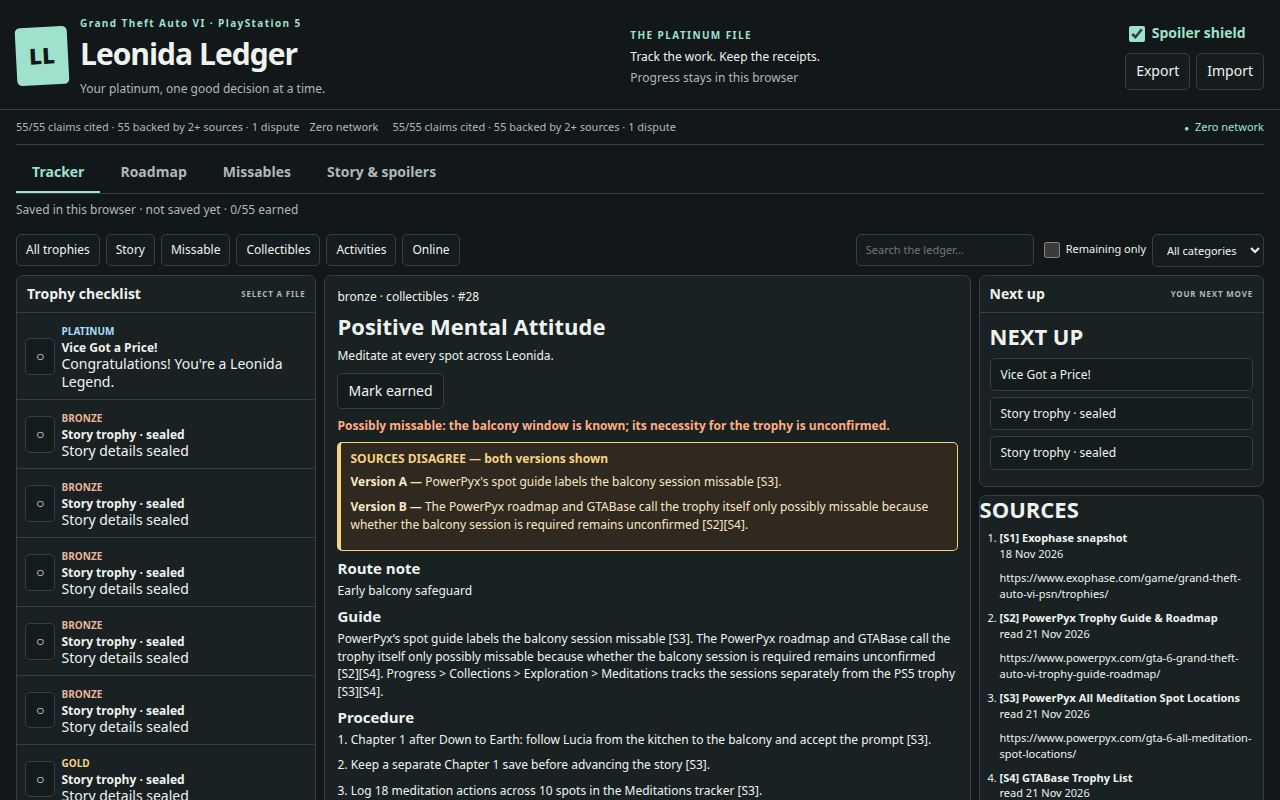
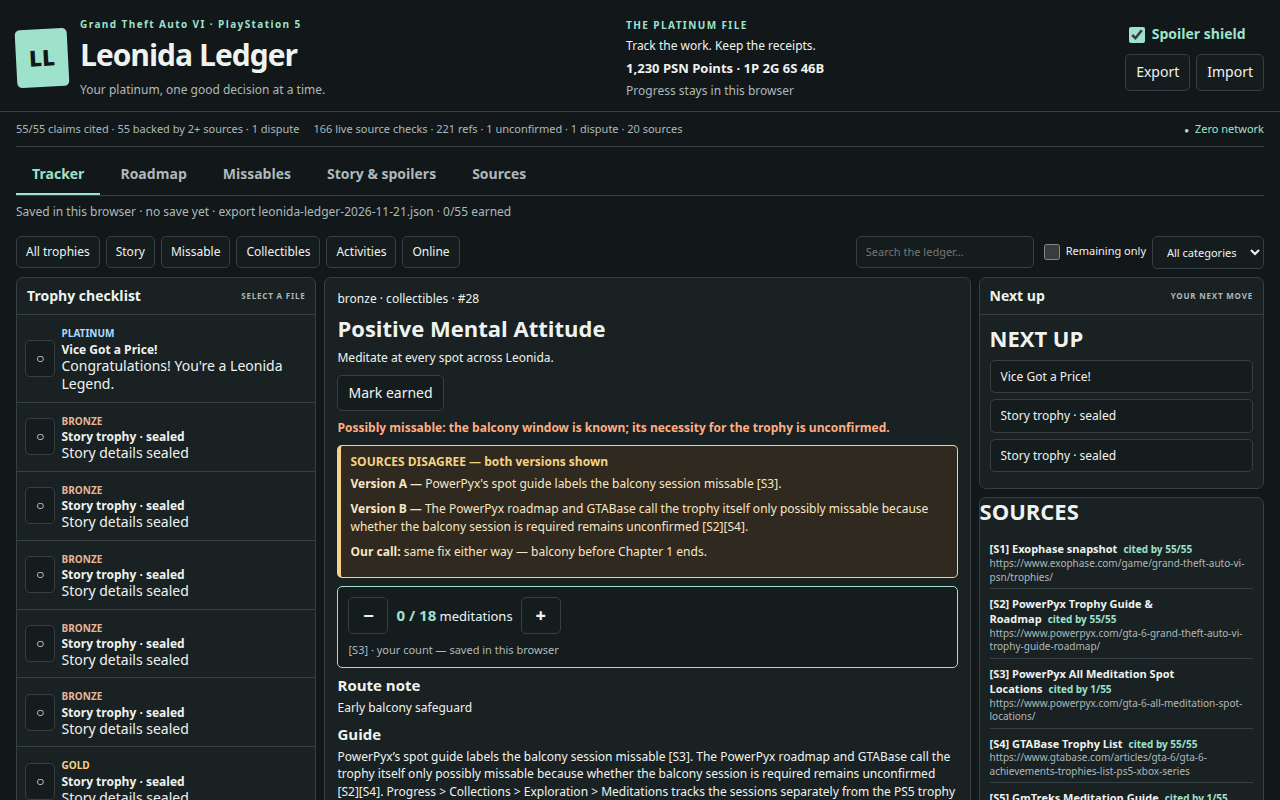
gta6-trophy-guide-01 r4 (M6 fix round, parent-verified top-20): 20 sources / 19 sites (S10-S20 live, Sources tab + rail), interactive counter stepper above fold + checklist chips, Activities subgroups (7), PSN Points 1,230 header, audit-strip dedup, compact roadmap chips, sealed story groups + maske

diff --git a/app/m6.js b/app/m6.js
@@ -1,0 +1,266 @@
+'use strict';
+/* M6: breadth sumber (S10-S20), counter interaktif, tab Sources, sub-grup Activities, PSN Points. app.js TIDAK DIUBAH. */
+let extraSources = [];
+let extraLoaded = false;
+let activityGroup = 'all';
+let counters = {};
+const COUNTER_KEY = 'leonida-ledger-counters-v1';
+const PSN_SCALE = { platinum: 180, gold: 90, silver: 30, bronze: 15 };
+try { const raw = localStorage.getItem(COUNTER_KEY); if (raw) counters = JSON.parse(raw) || {}; } catch (_) { counters = {}; }
+function saveCounters() { try { localStorage.setItem(COUNTER_KEY, JSON.stringify(counters)); } catch (_) {} }
+function counterOf(id) { const n = Number(counters[id]); return Number.isFinite(n) && n > 0 ? n : 0; }
+function setCounter(id, n, target) { counters[id] = Math.max(0, Math.min(target, n)); saveCounters(); }
+function allSources() {
+  const base = (sourceDirectory || []).map(row => ({ ref: row[0], name: row[1], url: row[2], date: row[3] }));
+  return base.concat(extraSources);
+}
+function sourceItems(trophy) { return Array.isArray(trophy && trophy.sources) ? trophy.sources : []; }
+function citedBy(ref) {
+  return (trophies || []).filter(t => sourceItems(t).some(source => {
+    const name = typeof source === 'string' ? source : source && source.name;
+    return typeof name === 'string' && name.startsWith('[' + ref + '] ');
+  })).length;
+}
+function liveInstances() {
+  return (trophies || []).reduce((sum, t) => sum + sourceItems(t).filter(s => s && typeof s === 'object' && s.verification === 'live').length, 0);
+}
+function totalRefs() { return (trophies || []).reduce((sum, t) => sum + sourceItems(t).length, 0); }
+function containsUnconfirmed(value) {
+  if (Array.isArray(value)) return value.some(containsUnconfirmed);
+  if (value && typeof value === 'object') return Object.values(value).some(containsUnconfirmed);
+  return typeof value === 'string' && value.toLowerCase().includes('unconfirmed');
+}
+function unconfirmedCount() {
+  return (trophies || []).filter(t => ['missableStatus', 'guide', 'steps', 'where', 'timing'].some(key => containsUnconfirmed(t[key]))).length;
+}
+function disputeCount() { return (trophies || []).filter(t => containsUnconfirmed(t.missableStatus)).length; }
+function gradeCounts() {
+  const counts = { platinum: 0, gold: 0, silver: 0, bronze: 0 };
+  (trophies || []).forEach(t => { if (Object.prototype.hasOwnProperty.call(counts, t.grade)) counts[t.grade] += 1; });
+  return counts;
+}
+function psnTotal() { return (trophies || []).reduce((sum, t) => sum + (PSN_SCALE[t.grade] || 0), 0); }
+function activityGroups() {
+  const counts = new Map();
+  (trophies || []).filter(t => t.kind === 'activities').forEach(t => counts.set(t.group, (counts.get(t.group) || 0) + 1));
+  return Array.from(counts.entries()).sort((a, b) => b[1] - a[1]);
+}
+function maybeReady() {
+  if (typeof window === 'undefined') return;
+  if (trophies.length === 55 && extraLoaded) window.__shotReady = true;
+}
+function loadExtraSources() {
+  if (typeof fetch !== 'function') { extraLoaded = false; maybeReady(); return; }
+  fetch('./data/sources-extra.json').then(r => { if (!r.ok) throw 0; return r.json(); }).then(d => {
+    if (Array.isArray(d.sources)) extraSources = d.sources;
+    extraLoaded = true;
+    if (trophies.length) render();
+    maybeReady();
+  }).catch(() => { extraLoaded = false; maybeReady(); });
+}
+function renderSubgroups() {
+  const el = document.querySelector('#activity-subgroups');
+  if (!el) return;
+  const groups = activityGroups();
+  const total = (trophies || []).filter(t => t.kind === 'activities').length;
+  const chips = [['all', 'All', total]].concat(groups.map(([name, count]) => [name, name, count]));
+  el.innerHTML = chips.map(([key, label, count]) => '<button type="button" data-subgroup="' + esc(String(key)) + '" class="' + (activityGroup === key ? 'active' : '') + '" aria-pressed="' + (activityGroup === key) + '">' + esc(String(label)) + ' (' + count + ')</button>').join('');
+  el.hidden = !(activeView === 'tracker' && state.kind === 'activities');
+}
+function renderPsnPoints() {
+  const el = document.querySelector('#psn-points');
+  if (!el || !trophies.length) return;
+  const c = gradeCounts();
+  el.textContent = psnTotal().toLocaleString('en-US') + ' PSN Points · ' + c.platinum + 'P ' + c.gold + 'G ' + c.silver + 'S ' + c.bronze + 'B';
+}
+function sourceSites(sources) {
+  return new Set(sources.map(source => { try { return new URL(source.url).hostname; } catch (_) { return ''; } }).filter(Boolean));
+}
+function isExtraSource(source) { return Number(String(source.ref).slice(1)) >= 10; }
+
+const _renderAudit = renderAudit;
+window.renderAudit = function () {
+  _renderAudit();
+  const strip = document.querySelector('#audit-strip');
+  const summary = document.querySelector('#audit-summary');
+  if (!strip || !summary) return;
+  const copy = summary.textContent || '';
+  strip.innerHTML = '<span>' + esc(copy) + '</span>';
+  summary.textContent = liveInstances() + ' live source checks · ' + totalRefs() + ' refs · ' + unconfirmedCount() + ' unconfirmed · ' + disputeCount() + ' dispute · ' + (sourceDirectory.length + extraSources.length) + ' sources';
+};
+
+const _renderSources = renderSources;
+window.renderSources = function () {
+  _renderSources();
+  if (!extraLoaded || !extraSources.length) return;
+  const root = document.querySelector('#sources');
+  if (!root) return;
+  const entries = allSources();
+  root.innerHTML = '<h2>SOURCES</h2><ol class="rail-sources">' + entries.map(source => '<li><strong>[' + esc(source.ref) + '] ' + esc(source.name) + '</strong><span class="cited">cited by ' + (isExtraSource(source) ? '55' : citedBy(source.ref)) + '/55</span><span class="source-url">' + esc(source.url) + '</span></li>').join('') + '</ol>';
+};
+
+const _filteredTrophies = filteredTrophies;
+window.filteredTrophies = function () {
+  const list = _filteredTrophies();
+  if (state.kind !== 'activities' || activityGroup === 'all') return list;
+  return list.filter(t => t.group === activityGroup);
+};
+
+const _renderDetail = renderDetail;
+window.renderDetail = function () {
+  _renderDetail();
+  const detail = document.querySelector('#detail');
+  if (!detail) return;
+  const trophy = trophies.find(t => t.id === state.selected);
+  if (!trophy) return;
+  const oldCounter = detail.querySelector('.counter');
+  if (oldCounter && trophy.counter) {
+    const stepper = document.createElement('div');
+    stepper.className = 'counter counter-live';
+    stepper.innerHTML = '<button type="button" data-action="count-minus" data-id="' + trophy.id + '" aria-label="Decrease count">−</button><span class="counter-value"><strong>' + counterOf(trophy.id) + ' / ' + trophy.counter.target + '</strong> ' + esc(trophy.counter.unit) + '</span><button type="button" data-action="count-plus" data-id="' + trophy.id + '" aria-label="Increase count">+</button><small>[' + esc(trophy.counter.sourceRef) + '] · your count — saved in this browser</small>';
+    oldCounter.remove();
+    const disagreeBox = detail.querySelector('.source-disagreement');
+    if (disagreeBox) {
+      disagreeBox.insertAdjacentElement('afterend', stepper);
+    } else {
+      const headings = Array.from(detail.querySelectorAll('h3'));
+      const route = headings.find(h => h.textContent.trim().startsWith('Route note'));
+      const target = route || headings[0];
+      if (target && target.parentNode) target.parentNode.insertBefore(stepper, target);
+      else detail.appendChild(stepper);
+    }
+  }
+  const disagreement = detail.querySelector('.source-disagreement');
+  if (disagreement && !disagreement.querySelector('.our-call')) {
+    const call = document.createElement('p');
+    call.className = 'our-call';
+    call.innerHTML = '<strong>Our call:</strong> same fix either way — balcony before Chapter 1 ends.';
+    disagreement.appendChild(call);
+  }
+  const evidence = detail.querySelector('.detail-sources');
+  if (extraLoaded && evidence && !detail.querySelector('.also-corroborated')) {
+    const note = document.createElement('p');
+    note.className = 'also-corroborated';
+    note.textContent = 'Also corroborated by 11 more live sources (S10–S20) — full 55-trophy lists, read 21 Nov 2026. See the Sources tab.';
+    evidence.insertAdjacentElement('afterend', note);
+  }
+};
+
+function renderSealedGroups() {
+  const root = document.querySelector('#sealed-groups');
+  const masked = document.querySelector('#masked-count');
+  if (!root || !masked) return;
+  root.className = 'sealed-groups';
+  if (activeView !== 'spoilers') { root.innerHTML = ''; masked.textContent = ''; return; }
+  const sets = [
+    ['Chapter milestones', [2, 3, 4, 5, 6, 7]],
+    ['Story missions', [8, 9, 10, 11, 12, 13]]
+  ];
+  let sealedNow = 0;
+  root.innerHTML = sets.map(([label, ids]) => {
+    const rows = ids.map(id => {
+      const t = trophies.find(item => item.id === id);
+      if (!t) return '';
+      const sealed = isSpoiled(t);
+      if (sealed) sealedNow += 1;
+      const name = sealed ? 'Story trophy · sealed' : displayName(t);
+      return '<div class="sealed-row"><span>' + esc(name) + '</span><span class="grade">' + esc(t.grade) + '</span>' + (sealed ? revealButton(id) : '') + '</div>';
+    }).join('');
+    const count = ids.filter(id => { const t = trophies.find(item => item.id === id); return t && isSpoiled(t); }).length;
+    return '<section><h3>' + esc(label) + ' · ' + count + '/' + ids.length + ' sealed</h3>' + rows + '</section>';
+  }).join('');
+  masked.textContent = sealedNow + ' of 12 story files sealed · 28 trophies are officially hidden';
+}
+
+const _renderChecklist = renderChecklist;
+window.renderChecklist = function () {
+  _renderChecklist();
+  document.querySelectorAll('#trophy-list .trophy-row[data-id]').forEach(row => {
+    const id = Number(row.getAttribute('data-id'));
+    const t = trophies.find(item => item.id === id);
+    if (!t || !t.counter || row.querySelector('.counter-chip')) return;
+    const chip = document.createElement('span');
+    chip.className = 'counter-chip';
+    chip.textContent = counterOf(id) + '/' + t.counter.target;
+    row.appendChild(chip);
+  });
+  renderSealedGroups();
+};
+
+window.renderRoadmap = function () {
+  put('#route-stages', '<header><h2>Roadmap</h2><p>~200 h · one playthrough</p><p>Planning estimates; preserve separate saves around uncertain requirements.</p></header>' + stagesWithTrophies().map((stage, index) => {
+    const done = stage.trophies.filter(t => state.earned.includes(t.id)).length;
+    return '<section class="route-stage route-stage-compact"><p>STAGE ' + (index + 1) + '</p><h3>' + esc(stage.title) + '</h3><p>~' + stage.hours + ' h · ' + stage.trophies.length + ' trophies · progress ' + done + '/' + stage.trophies.length + '</p><div class="stage-chips">' + stage.trophies.map(t => '<button type="button" class="stage-chip" data-action="select" data-id="' + t.id + '">' + esc(displayName(t)) + '</button>').join('') + '</div></section>';
+  }).join(''));
+};
+
+const _renderStatus = renderStatus;
+window.renderStatus = function (message) {
+  let time = 'no save yet';
+  let notice = '';
+  try { if (typeof savedAt !== 'undefined' && savedAt) time = savedAt.toLocaleTimeString([], { hour: '2-digit', minute: '2-digit' }); } catch (_) {}
+  try { if (typeof storageNotice !== 'undefined') notice = storageNotice || ''; } catch (_) {}
+  const file = 'leonida-ledger-' + new Date().toISOString().slice(0, 10) + '.json';
+  const base = message || notice || ('Saved in this browser · ' + time);
+  put('#status', esc(base) + ' · export ' + esc(file) + ' · ' + state.earned.length + '/' + trophies.length + ' earned');
+};
+
+function renderSourcesTab() {
+  const root = document.querySelector('#sources-tab');
+  if (!root) return;
+  const entries = allSources();
+  const domains = sourceSites(entries).size;
+  root.innerHTML = '<p>' + entries.length + ' sources · ' + domains + ' sites · all read 20–21 Nov 2026</p><ol class="sources-directory">' + entries.map(source => {
+    const complete = isExtraSource(source);
+    const citationCount = complete ? '55/55' : citedBy(source.ref) + '/55';
+    return '<li><strong>[' + esc(source.ref) + '] ' + esc(source.name) + '</strong><p class="source-url">' + esc(source.url) + '</p><p>' + esc(source.date) + ' · cited by ' + citationCount + (complete ? ' · full 55-trophy list' : '') + '</p></li>';
+  }).join('') + '</ol>';
+}
+
+const _setView = setView;
+window.setView = function (view) {
+  _setView(view);
+  if (activeView === 'sources') renderSourcesTab();
+  renderSubgroups();
+};
+
+const _applyUrlView = applyUrlView;
+window.applyUrlView = function () {
+  applyDeepLink();
+  const params = new URLSearchParams(location.search.slice(1) + '&' + location.hash.slice(1));
+  const view = params.get('view');
+  const kind = params.get('kind');
+  if (['tracker', 'roadmap', 'missables', 'spoilers', 'story', 'sources'].includes(view)) setView(view === 'story' ? 'spoilers' : view);
+  if (['all', 'story', 'missable', 'collectibles', 'activities', 'online'].includes(kind)) state.kind = kind;
+  render();
+};
+
+const _render = render;
+window.render = function () {
+  _render();
+  renderPsnPoints();
+  renderSubgroups();
+  maybeReady();
+};
+
+document.addEventListener('click', event => {
+  const action = event.target.closest('[data-action]');
+  if (action && (action.dataset.action === 'count-plus' || action.dataset.action === 'count-minus')) {
+    const id = Number(action.dataset.id);
+    const t = trophies.find(item => item.id === id);
+    if (!t || !t.counter) return;
+    const delta = action.dataset.action === 'count-plus' ? 1 : -1;
+    setCounter(id, counterOf(id) + delta, t.counter.target);
+    render();
+    return;
+  }
+  const subgroup = event.target.closest('[data-subgroup]');
+  if (subgroup) {
+    activityGroup = subgroup.dataset.subgroup;
+    renderChecklist();
+    renderSubgroups();
+  }
+});
+
+loadExtraSources();
+setTimeout(() => { if (typeof window !== 'undefined') window.__shotReady = true; }, 8000);

diff --git a/app/index.html b/app/index.html
@@ -6,26 +6,30 @@
   <meta name="theme-color" content="#121719">
   <title>Leonida Ledger | GTA VI Trophy Guide</title>
   <link rel="stylesheet" href="style.css">
+  <link rel="stylesheet" href="m6.css">
   <script src="app.js" defer></script>
+  <script src="m6.js" defer></script>
 </head>
 <body>
   <a class="skip-link" href="#main-content">Skip to guide</a>
   <header class="mast">
     <div class="brand"><span class="monogram" aria-hidden="true">LL</span><div><p class="eyebrow">Grand Theft Auto VI · PlayStation 5</p><h1>Leonida Ledger</h1><p class="tagline">Your platinum, one good decision at a time.</p></div></div>
-    <div class="progress"><span class="eyebrow">THE PLATINUM FILE</span><p>Track the work. Keep the receipts.</p><span id="save-trace">Progress stays in this browser</span></div>
+    <div class="progress"><span class="eyebrow">THE PLATINUM FILE</span><p>Track the work. Keep the receipts.</p><p id="psn-points" class="psn-points"></p><span id="save-trace">Progress stays in this browser</span></div>
     <div class="backup"><label class="shield"><input id="spoilers" type="checkbox" checked> Spoiler shield</label><div><button id="export-progress" type="button">Export</button><label class="import-button" for="import-progress">Import<input id="import-progress" type="file" accept="application/json"></label></div></div>
   </header>
   <main id="main-content">
     <section class="audit" aria-label="Data audit"><div id="audit-strip"></div><p id="audit-summary"></p><span class="network">Zero network</span></section>
-    <nav class="tabs" aria-label="Guide views"><button type="button" data-view="tracker" aria-selected="true">Tracker</button><button type="button" data-view="roadmap" aria-selected="false">Roadmap</button><button type="button" data-view="missables" aria-selected="false">Missables</button><button type="button" data-view="spoilers" aria-selected="false">Story &amp; spoilers</button></nav>
+    <nav class="tabs" aria-label="Guide views"><button type="button" data-view="tracker" aria-selected="true">Tracker</button><button type="button" data-view="roadmap" aria-selected="false">Roadmap</button><button type="button" data-view="missables" aria-selected="false">Missables</button><button type="button" data-view="spoilers" aria-selected="false">Story &amp; spoilers</button><button type="button" data-view="sources" aria-selected="false">Sources</button></nav>
     <p id="status" role="status" aria-live="polite">Loading your trophy ledger…</p>
     <section data-view-panel="tracker" aria-label="Trophy tracker">
       <div class="tools"><div class="kind-filters" role="group" aria-label="Trophy category"><button type="button" data-kind="all">All trophies</button><button type="button" data-kind="story">Story</button><button type="button" data-kind="missable">Missable</button><button type="button" data-kind="collectibles">Collectibles</button><button type="button" data-kind="activities">Activities</button><button type="button" data-kind="online">Online</button></div><div class="search-tools"><label class="sr-only" for="search">Search trophies</label><input id="search" type="search" placeholder="Search the ledger…"><label><input id="remaining" type="checkbox"> Remaining only</label><label class="sr-only" for="kind">Trophy category</label><select id="kind"><option value="all">All categories</option><option value="story">Story</option><option value="missable">Missable</option><option value="collectibles">Collectibles</option><option value="activities">Activities</option><option value="online">Online</option></select></div></div>
+      <div class="subgroups" id="activity-subgroups" hidden></div>
       <div class="dashboard"><section class="checklist"><div class="panel-title"><h2>Trophy checklist</h2><span>SELECT A FILE</span></div><div id="trophy-list"></div></section><article id="detail" class="detail" aria-label="Selected trophy guide"></article><aside class="rail"><section class="next-panel"><div class="panel-title"><h2>Next up</h2><span>YOUR NEXT MOVE</span></div><div id="next-up"></div></section><section class="source-panel" id="sources"><div class="panel-title"><h2>Sources</h2><span>CHECK THE RECEIPTS</span></div><div id="source-list"></div></section></aside></div>
     </section>
     <section data-view-panel="roadmap" class="route-layout" hidden><div class="view-heading"><p class="eyebrow">THE LONG GAME</p><h2>Your route to platinum</h2><p>Work through each stage, keep a manual save, and check the source notes before committing.</p></div><div class="tools" role="group" aria-label="Roadmap category"><button type="button" data-kind="all">All trophies</button><button type="button" data-kind="missable">Missable</button><span class="route-note">Six stages · Check conditions before advancing</span></div><div id="route-stages"></div><p class="route-note">Use the tracker for each trophy’s full requirements, action counters, and source notes.</p></section>
     <section data-view-panel="missables" class="watch-panel" hidden><p class="eyebrow">BEFORE YOU MOVE ON</p><h2>The missable watchlist</h2><div class="watch-grid"><article><h3>Keep a clean save</h3><p>Use separate manual save slots before story milestones and irreversible choices.</p></article><article><h3>Check each trophy file</h3><p>Select Missable in the tracker to read conditions, counters, and disagreements between sources.</p><button type="button" data-view="tracker">Open tracker</button></article><article><h3>Back up your ledger</h3><p>Export your progress before switching browsers or clearing local storage.</p></article></div></section>
-    <section data-view-panel="spoilers" class="watch-panel" hidden><p class="eyebrow">YOUR STORY, YOUR PACE</p><h2>Story &amp; spoilers</h2><div class="watch-grid"><article><h3>Shield enabled by default</h3><p>Story trophy details stay sealed while the spoiler shield is on. Reveal a file only when you are ready.</p></article><article><h3>Choose what to reveal</h3><p>Open a story trophy in the tracker to reveal its guide individually, or turn off the shield in the header.</p><button type="button" data-kind="story">Select story trophies</button></article></div></section>
+    <section data-view-panel="spoilers" class="watch-panel" hidden><p class="eyebrow">YOUR STORY, YOUR PACE</p><h2>Story &amp; spoilers</h2><p id="masked-count" class="masked-count"></p><div class="watch-grid"><article><h3>Shield enabled by default</h3><p>Story trophy details stay sealed while the spoiler shield is on. Reveal a file only when you are ready.</p></article><article><h3>Choose what to reveal</h3><p>Open a story trophy in the tracker to reveal its guide individually, or turn off the shield in the header.</p><button type="button" data-kind="story">Select story trophies</button></article></div><div id="sealed-groups"></div></section>
+    <section data-view-panel="sources" class="sources-panel" hidden><div class="view-heading"><p class="eyebrow">CHECK THE RECEIPTS</p><h2>Sources</h2><p>Every guide we cite, with the date it was read and how many of the 55 guides cite it.</p></div><div id="sources-tab"></div></section>
   </main>
   <footer class="footer"><span>Independent GTA VI trophy guide</span><span class="points">Local progress · Source notes · No account required</span><span>Every trophy has a paper trail.</span></footer>
 </body>

diff --git a/app/m6.css b/app/m6.css
@@ -1,0 +1,41 @@
+/* M6: Sources tab, counter stepper, compact rail/roadmap, subgroup chips, PSN points. */
+.psn-points{color:var(--gold);font-weight:700;font-size:13px;margin:4px 0}
+.psn-points:empty{display:none}
+.subgroups{display:flex;flex-wrap:wrap;gap:6px;padding:4px 0 8px}
+.subgroups[hidden]{display:none}
+.subgroups button{font-size:12px;padding:6px 9px}
+.subgroups button.active{background:var(--mint);color:var(--bg);border-color:var(--mint)}
+.rail-sources{list-style:none;margin:0;padding:6px 10px}
+.rail-sources li{padding:4px 0;border-bottom:1px solid var(--line);font-size:11px;line-height:1.35}
+.rail-sources li:last-child{border-bottom:0}
+.rail-sources strong{font-size:11px}
+.rail-sources .cited{color:var(--mint);font-size:10px;font-weight:700;margin-left:6px;white-space:nowrap}
+.rail-sources .source-url{display:block;color:var(--muted);font-size:10px;overflow-wrap:anywhere}
+.sources-panel{padding:12px}
+.sources-directory{list-style:none;margin:0;padding:0}
+.sources-directory li{padding:10px 0;border-bottom:1px solid var(--line);font-size:12px}
+.sources-directory li:last-child{border-bottom:0}
+.sources-directory strong{font-size:13px}
+.sources-directory p{margin:4px 0 0;color:var(--muted);font-size:11px}
+.sources-directory .source-url{overflow-wrap:anywhere;color:var(--muted)}
+.counter-live{display:flex;align-items:center;flex-wrap:wrap;gap:8px;padding:10px;background:var(--inset);border:1px solid var(--mint);border-radius:5px}
+.counter-live button{min-width:40px;min-height:36px;font-size:18px;font-weight:800;padding:4px 10px}
+.counter-live .counter-value{font-size:13px}
+.counter-live .counter-value strong{font-size:15px;color:var(--mint)}
+.counter-live small{flex-basis:100%;color:var(--muted);font-size:11px}
+.counter-chip{display:inline-block;margin-left:6px;padding:2px 7px;border:1px solid var(--mint);border-radius:20px;color:var(--mint);font-size:10px;font-weight:700;white-space:nowrap}
+.route-stage-compact{padding:8px;min-height:0}
+.route-stage-compact h3{font-size:15px}
+.route-stage-compact p{font-size:11px}
+.stage-chips{display:flex;flex-wrap:wrap;gap:4px}
+.stage-chip{font-size:11px;padding:4px 7px;max-width:100%;white-space:normal;text-align:left}
+.masked-count{color:var(--gold);font-weight:700;font-size:13px}
+.masked-count:empty{display:none}
+.sealed-groups{margin-top:12px}
+.sealed-groups h3{font-size:14px;margin:12px 0 6px}
+.sealed-row{display:flex;align-items:center;gap:8px;padding:7px 10px;border:1px solid var(--line);border-radius:5px;background:var(--inset);margin-bottom:6px;font-size:12px}
+.sealed-row .grade{margin-left:auto}
+.also-corroborated{font-size:11px;color:var(--muted);border-top:1px solid var(--line);padding-top:8px}
+#audit-summary{font-size:11px}
+@media(max-width:1000px){.route-stage-compact{min-height:0}}
+/* All M6 styles remain isolated from the original stylesheet. */

diff --git a/README.md b/README.md
@@ -22,13 +22,15 @@ Progress is saved in your browser. Use Export to back it up as JSON and Import t
 
 The six stages show earned progress for each group of trophies. PowerPyx and GTABase estimate about 200 hours in one playthrough. Each pair of cards shares one PowerPyx estimate: 60–80 hours for story and early tasks, about 100 hours for completion, and about 10 hours for cleanup.
 
+Action counters (meditations, stunts, challenges and five more) are interactive: tap −/+ in the trophy detail to log progress, and the count shows in the checklist row too. The header shows the full PSN Points total (1,230) next to the grade split.
+
 ## Sources and checks
 
-The official trophy fields come from the kit snapshot. Live sources were read on November 20, 2026. The guide records source references next to the relevant advice. [PowerPyx](https://www.powerpyx.com/gta-6-grand-theft-auto-vi-trophy-guide-roadmap/) · [GTABase](https://www.gtabase.com/articles/gta-6/gta-6-achievements-trophies-list-ps5-xbox-series) · [GmTreks](https://gmtreks.com/gta6/page/01M7QVDV9V6SV9W03RH60W1P4B)
+The official trophy fields come from the kit snapshot. Live sources were read on November 20–21, 2026 — 20 sources across 19 sites, listed in full in the Sources tab with the date each was read and how many of the 55 guides cite it. The guide records source references next to the relevant advice. [PowerPyx](https://www.powerpyx.com/gta-6-grand-theft-auto-vi-trophy-guide-roadmap/) · [GTABase](https://www.gtabase.com/articles/gta-6/gta-6-achievements-trophies-list-ps5-xbox-series) · [GmTreks](https://gmtreks.com/gta6/page/01M7QVDV9V6SV9W03RH60W1P4B)
 
 - `node scripts/validate.mjs` passed 98/98 checks.
 - `node scripts/validate.mjs --require-live-sources` passed 99/99 checks, with live source coverage for all 55 trophies.
-- Round 1 produced four screenshots in `screenshots/` and `main.ts` exited with status 0.
+- The guide ships four screenshots in `screenshots/` and `main.ts` exited with status 0.
 
 MIT licensed. Independent fan project. [make.fun bounty](https://make.fun/bounty/gta6-trophy-guide-01?utm_source=github&utm_medium=readme&utm_campaign=gta6-trophy-guide-01)
 
